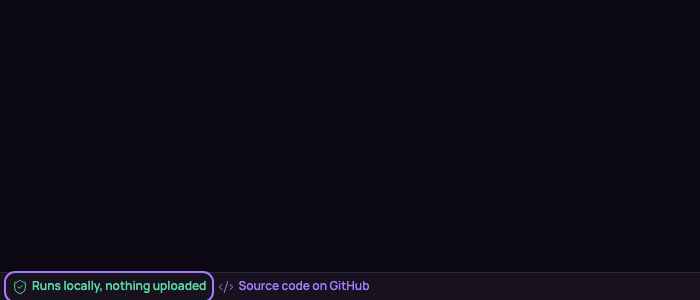
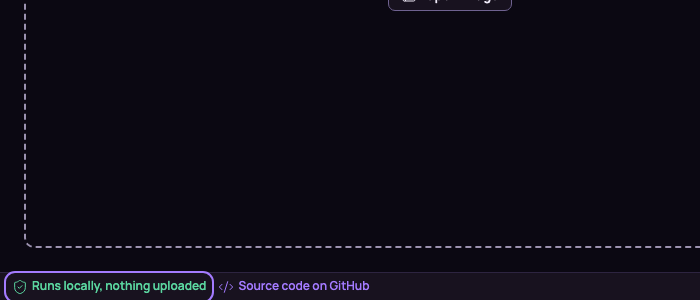
F-016: review fixes
Review round 1 (review-F-016-round-1.md):
- M1: the F-016.AC4 test loads wide-2000x1000.png and checks that the image is
  still shown at its size after the source link opens; annotations and history
  stay deferred to F-003/F-009.
- m1: Esc is handled only while the popover is open.
- m2: focus leaving the popover dismisses it, including focus moving to the
  source link, tabbing out of the page (WebKit), and Shift+Tab out of the
  statement. A WebKit press that doesn't focus the button no longer counts as
  focus leaving. New test for focus-out dismissal.
- m3: the narrow popover is anchored to the status bar with CSS; the
  measuring is gone.
- m4: AC3 test checks that the narrow source link is icon-only.
- m5: AC2 test checks that /third-party-notices.txt is served.
Screenshots retaken.

Changed region(s): [[0.03, 0.81, 1.0, 0.84], [0.57, 0.0, 0.72, 0.06]]

diff --git a/tests/e2e/privacy.spec.ts b/tests/e2e/privacy.spec.ts
@@ -2,10 +2,11 @@
 // the privacy statement and source link in the status bar at every layout width, the details
 // popover and its dismissal, and the source link opening the repository in a new tab with no
 // referrer. GitHub is never contacted: the new tab's request is answered by a local route.
-// Partly deferred: AC4's "image, annotations and history unchanged" needs a loaded, annotated image
-// (F-001, F-003, F-009); until then the test checks that the page keeps its window and session.
+// Partly deferred: AC4 checks that a loaded image (F-001) is unchanged; "annotations and history
+// unchanged" waits for F-003 and F-009.
 import AxeBuilder from '@axe-core/playwright';
 import { expect, test, type Page } from '@playwright/test';
+import { expectLoaded, fixture, paste } from './support/load';
 
 const REPO = 'https://github.com/thanh-taro/image-annotator';
 const BADGE = 'Runs locally, nothing uploaded';
@@ -86,6 +87,10 @@ for (const theme of ['dark', 'light'] as const) {
     await expect(notices).toHaveAttribute('href', '/third-party-notices.txt');
     await expect(notices).toHaveAttribute('target', '_blank');
     await expect(notices).toHaveAttribute('rel', 'noopener noreferrer');
+    // The notices file the link points to is shipped with the tool.
+    const served = await page.request.get('/third-party-notices.txt');
+    expect(served.ok()).toBe(true);
+    expect(await served.text()).toContain('lucide-static');
     // The popover stays inside the tool.
     const box = await details(page).boundingBox();
     expect(box && box.x >= 0 && box.y >= 0 && box.x + box.width <= 1200).toBe(true);
@@ -124,6 +129,37 @@ test('F-016.AC2 activating the statement again or clicking outside dismisses the
   await expect(details(page)).toHaveCount(0);
 });
 
+test('F-016.AC2 focus leaving the details dismisses them, forwards or backwards', async ({ page }) => {
+  await page.setViewportSize({ width: 1200, height: 760 });
+  await page.goto('/');
+  // Tab past Close leaves the popover. (Chromium lands on the source link; WebKit skips links on Tab
+  // by default, as Safari does, and moves on past it.)
+  await badge(page).click();
+  await expect(details(page)).toBeVisible();
+  await details(page).getByRole('button', { name: 'Close' }).focus();
+  await page.keyboard.press('Tab');
+  await expect(details(page)).toHaveCount(0);
+
+  // Focus moving from the popover to the source link, which sits right after it, dismisses it.
+  await badge(page).click();
+  await expect(details(page)).toBeVisible();
+  await sourceLink(page).focus();
+  await expect(details(page)).toHaveCount(0);
+  // Esc on the source link with the popover closed leaves focus where it is.
+  await page.keyboard.press('Escape');
+  await expect(sourceLink(page)).toBeFocused();
+
+  // Back from the details to the statement keeps them open; Shift+Tab out of the statement closes them.
+  // (Shift+Tab from the popover reaches the statement in Chromium; WebKit skips buttons on Tab.)
+  await badge(page).click();
+  await expect(details(page)).toBeVisible();
+  await badge(page).focus();
+  await expect(details(page)).toBeVisible();
+  await page.keyboard.press('Shift+Tab');
+  await expect(badge(page)).not.toBeFocused();
+  await expect(details(page)).toHaveCount(0);
+});
+
 test('F-016.AC2 at 320 px the details fit the tool with gutters', async ({ page }) => {
   await page.setViewportSize({ width: 320, height: 760 });
   await page.goto('/');
@@ -147,6 +183,10 @@ for (const width of [320, 390, 900, 1200]) {
     await expect(link).toBeVisible();
     await expect(link).toHaveAttribute('href', REPO);
     await expect(link).toHaveAccessibleName(`${SOURCE} (opens in a new tab)`);
+    // Narrow (< 800 px): the link is an icon; its words are visually hidden but still name it.
+    const label = await link.getByText(SOURCE, { exact: true }).boundingBox();
+    if (width < 800) expect(label!.width).toBeLessThanOrEqual(1);
+    else expect(label!.width).toBeGreaterThan(40);
     // Next to the statement: same row, directly after it.
     const [b, l] = await Promise.all([badge(page).boundingBox(), link.boundingBox()]);
     expect(b && l).toBeTruthy();
@@ -169,6 +209,11 @@ test('F-016.AC4 the source link opens the repository in a new tab with no referr
     await route.fulfill({ status: 200, contentType: 'text/html', body: '<!doctype html><title>repo</title>' });
   });
   await page.goto('/');
+  await paste(page, [fixture('wide-2000x1000.png', 'image/png')]);
+  await expectLoaded(page, 2000, 1000);
+  const tool = page.locator('[data-screen="SCR-Annotator"]');
+  await expect(tool).toHaveAttribute('data-state', 'default');
+  const summaryBefore = await page.locator('#tk-canvas-summary').textContent();
   await page.evaluate(() => ((window as unknown as { __mark?: number }).__mark = 42));
   const before = page.url();
 
@@ -180,8 +225,10 @@ test('F-016.AC4 the source link opens the repository in a new tab with no referr
   expect(await tab.evaluate(() => document.referrer)).toBe('');
   expect(await tab.evaluate(() => window.opener)).toBeNull();
 
-  // The tool's own page is untouched: same window, same address, still showing the tool.
+  // The tool's own page is untouched: same window and address, the image still shown at its size.
   expect(page.url()).toBe(before);
   expect(await page.evaluate(() => (window as unknown as { __mark?: number }).__mark)).toBe(42);
-  await expect(page.locator('[data-screen="SCR-Annotator"]')).toBeVisible();
+  await expect(tool).toHaveAttribute('data-state', 'default');
+  await expectLoaded(page, 2000, 1000);
+  await expect(page.locator('#tk-canvas-summary')).toHaveText(summaryBefore ?? '');
 });

diff --git a/src/app/PrivacyStatus.tsx b/src/app/PrivacyStatus.tsx
@@ -21,44 +21,56 @@ export function PrivacyStatus() {
   const rootRef = useRef<HTMLDivElement>(null);
   const badgeRef = useRef<HTMLButtonElement>(null);
   const detailsRef = useRef<HTMLDivElement>(null);
+  // The last press was on the statement, the link or the popover. WebKit does not focus a pressed
+  // button, so such a press moves focus to the body; it must not count as focus leaving.
+  const pressedInside = useRef(false);
 
   const close = (returnFocus: boolean) => {
     setOpen(false);
     if (returnFocus) badgeRef.current?.focus();
   };
 
-  // Implements: F-016.R2 — place the popover above the statement. On narrow widths it spans the
-  // tool minus the gutters, so it needs the statement's offset from the tool's start edge.
+  // CMP-StatusBar "Accessibility": focus moves into the popover when it opens.
   useLayoutEffect(() => {
-    const root = rootRef.current;
-    if (!open || !root) return;
-    const tool = root.closest('[data-screen]') ?? document.documentElement;
-    const offset = root.getBoundingClientRect().left - tool.getBoundingClientRect().left;
-    root.style.setProperty('--tk-privacy-offset', `${offset}px`);
-    detailsRef.current?.focus();
+    if (open) detailsRef.current?.focus();
   }, [open]);
 
   // Implements: F-016.AC2 — a press outside the statement and its popover dismisses it.
   useEffect(() => {
     if (!open) return;
     const onPointerDown = (e: PointerEvent) => {
-      if (!rootRef.current?.contains(e.target as Node)) close(false);
+      pressedInside.current = rootRef.current?.contains(e.target as Node) === true;
+      if (!pressedInside.current) close(false);
     };
     document.addEventListener('pointerdown', onPointerDown, true);
     return () => document.removeEventListener('pointerdown', onPointerDown, true);
   }, [open]);
 
   const onKeyDown = (e: KeyboardEvent) => {
-    if (e.key !== 'Escape') return;
+    pressedInside.current = false;
+    if (e.key !== 'Escape' || !open) return;
     // Esc belongs to the popover while it is open, not to the tool's own Esc (RULE-19).
     e.stopPropagation();
     e.preventDefault();
     close(true);
   };
 
+  // CMP-StatusBar "Accessibility": focus leaving the popover dismisses it; only the popover and the
+  // statement that opened it keep it open (the source link is outside it).
   const onFocusOut = (e: FocusEvent) => {
+    if (!open) return;
+    const keeps = (node: Node | null) =>
+      !!node && (detailsRef.current?.contains(node) === true || node === badgeRef.current);
     const next = e.relatedTarget as Node | null;
-    if (next && !rootRef.current?.contains(next)) close(false);
+    if (next) {
+      if (!keeps(next)) close(false);
+      return;
+    }
+    // No next element: focus left the page (Tab past the last control) or went to the body. Decide
+    // once the move is done; a window switch keeps the active element, so it keeps the popover.
+    setTimeout(() => {
+      if (!pressedInside.current && !keeps(document.activeElement)) close(false);
+    });
   };
 
   return (

diff --git a/src/app/styles/privacy.css b/src/app/styles/privacy.css
@@ -112,6 +112,11 @@
   /* Narrow (D-014, CMP-StatusBar "narrow"): icons named COPY-privacy.badge_label and
      COPY-privacy.source_label; the popover spans the tool minus the 16 px gutters. */
   @container tk-annotator (width < 800px) {
+    /* Anchored to the status bar (positioned in base.css), not to the statement. */
+    .tk-privacy {
+      position: static;
+    }
+
     .tk-privacy__wide {
       display: none;
     }
@@ -130,8 +135,8 @@
     }
 
     .tk-privacy__details {
-      inset-inline-start: calc(var(--tk-space-4) - var(--tk-privacy-offset, 0px));
-      inline-size: calc(100cqi - 2 * var(--tk-space-4));
+      inset-inline: var(--tk-space-4);
+      inline-size: auto;
     }
   }
 

diff --git a/src/app/styles/base.css b/src/app/styles/base.css
@@ -34,6 +34,7 @@
 
   .tk-status-bar {
     /* F-016: a row of status items with the privacy statement at the start (style.md "Status bar"). */
+    position: relative;
     display: flex;
     align-items: center;
     gap: var(--tk-space-2);
